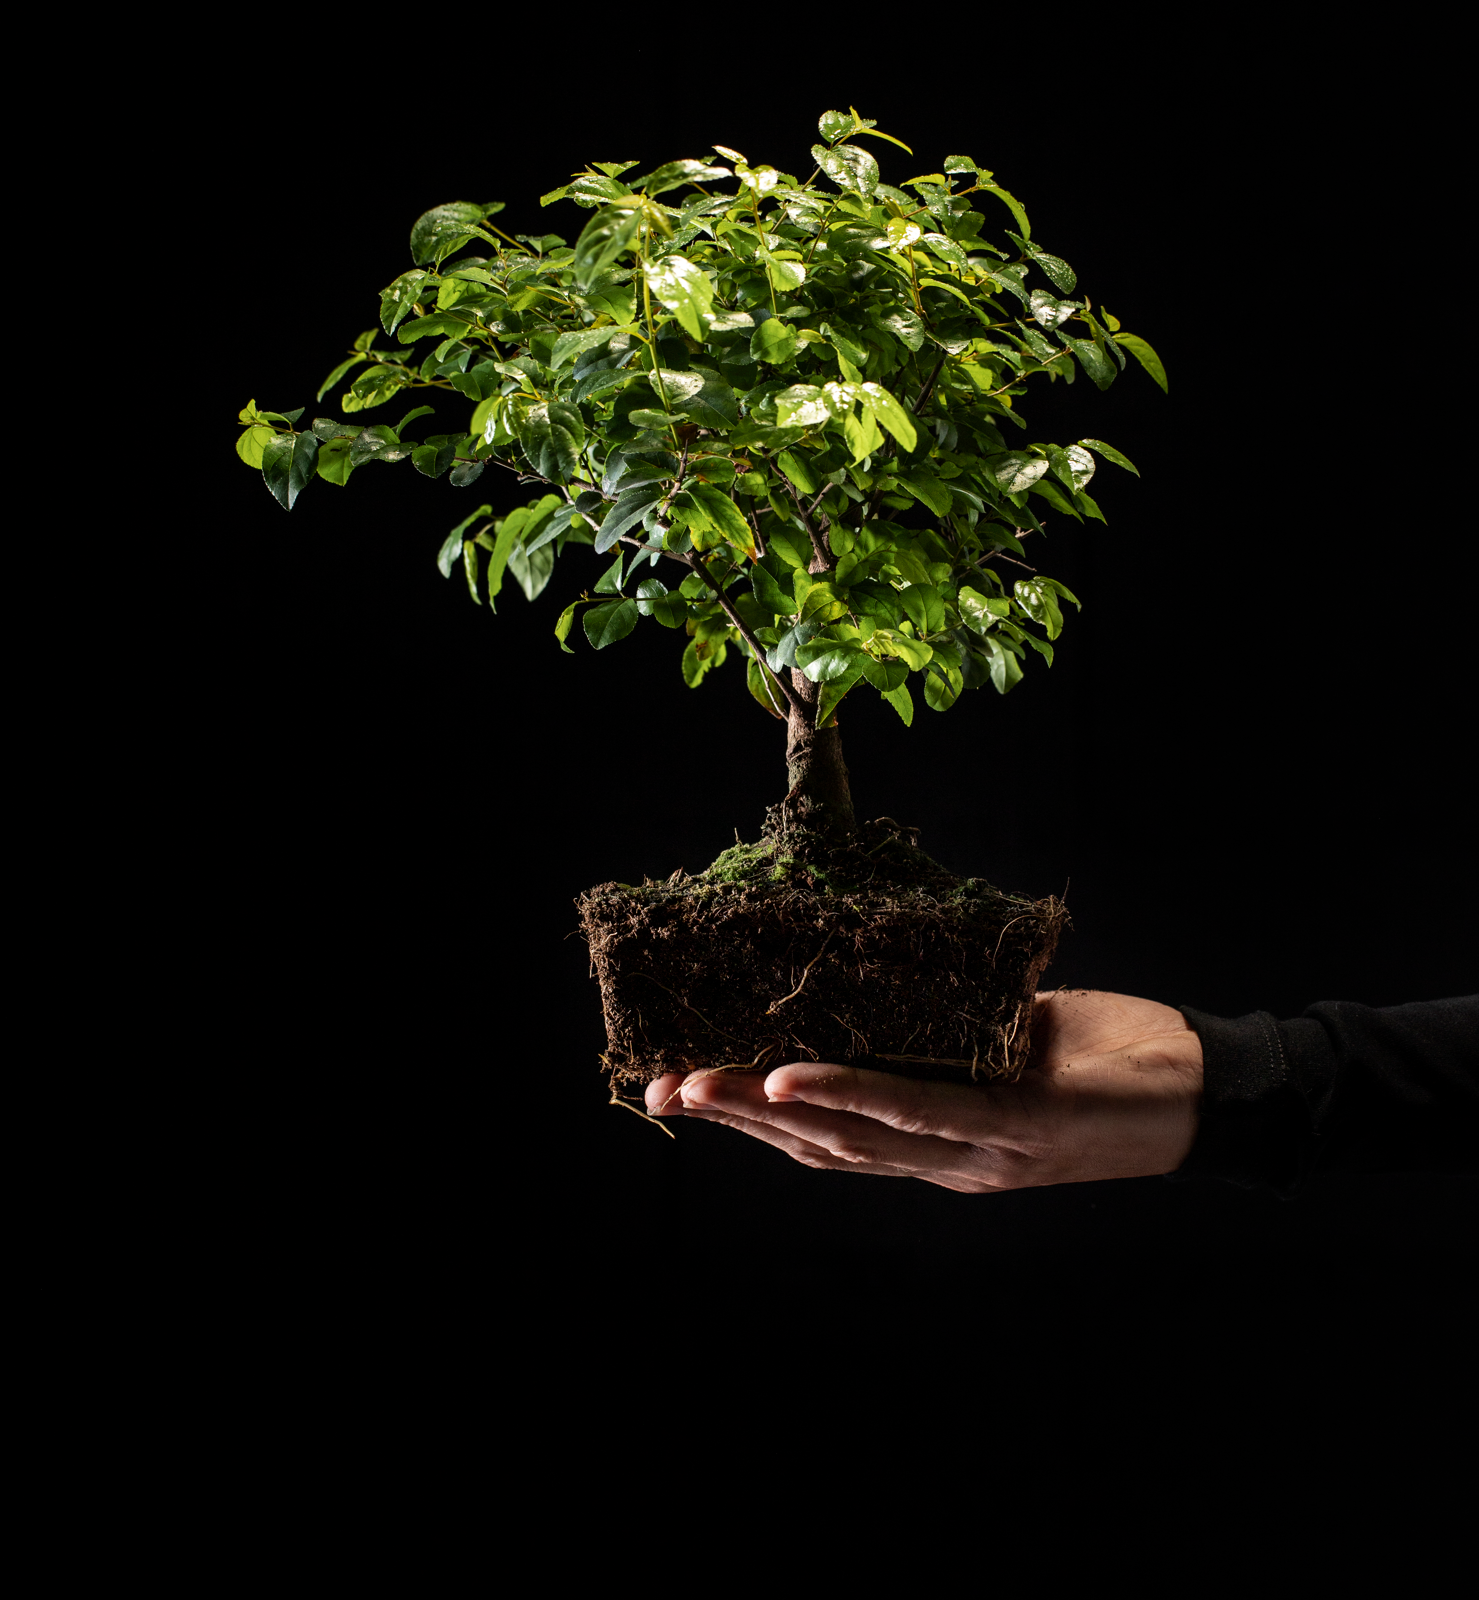
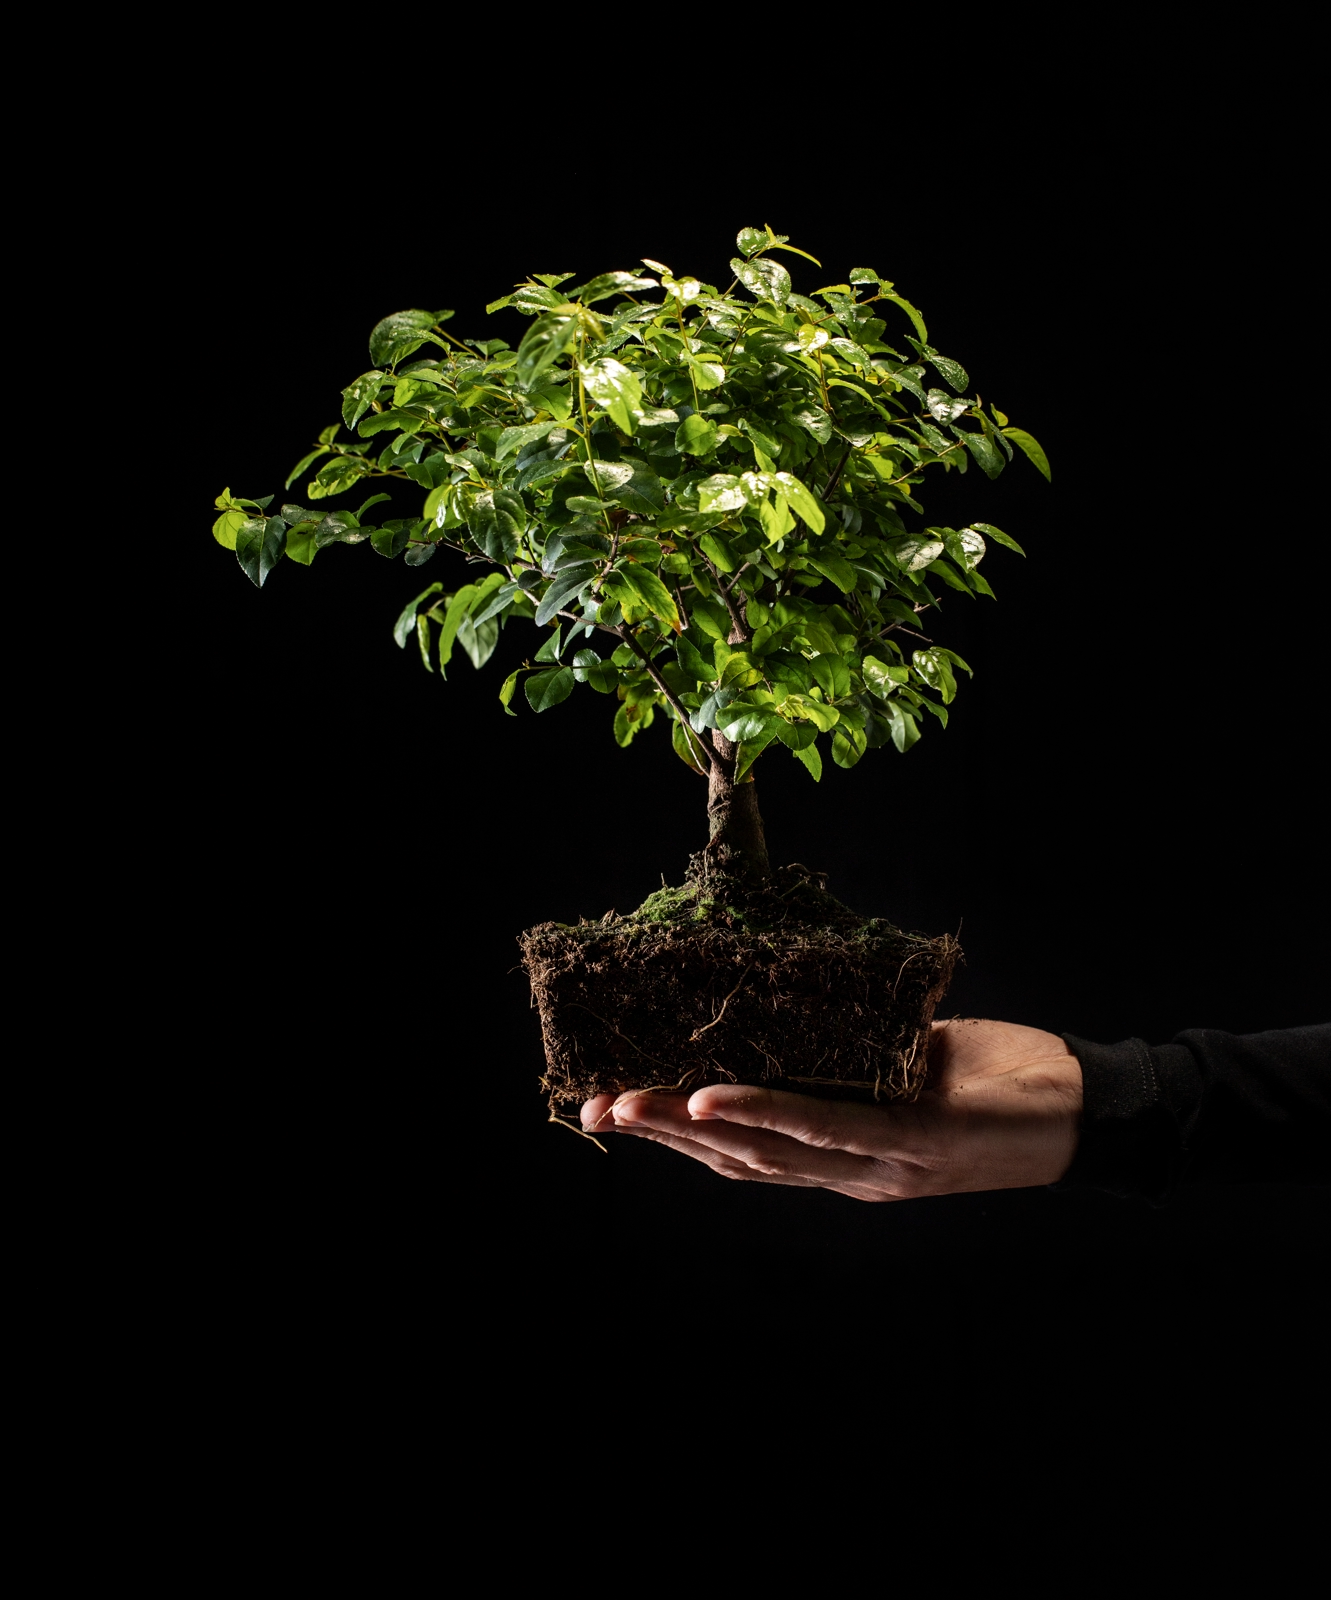
Add in index page disine

Changed region(s): [[0.154, 0.0625, 0.8625, 0.75]]

diff --git a/resources/css/index.css b/resources/css/index.css
@@ -1,46 +1,75 @@
+.index-first-background-image{
+    display: flex;
+    align-items: center;
+    justify-content: center;
+}
+
 /* Large desktops and laptops */
 @media (min-width: 1200px) {
     
     .index-first-background-image{
-        background:linear-gradient(rgba(28, 28, 29, 0), rgba(28, 28, 29, 0)), url("../../public/web/index/1600/main_image1.webp") center center / cover no-repeat;
+        background:linear-gradient(rgba(28, 28, 29, 0), rgba(28, 28, 29, 0)), url("../../public/web/index/1600/side_view_gardener_holding_little_tree.webp") center center / cover no-repeat;
+    }
+
+    .index-last-background-image{
+        background-image: url("../../public/web/index/1600/potted-tree-wooden-surface.webp");
+        background-size: 100%;
+        background-repeat: no-repeat;
+        background-size: 50%;
+        
+        /* background:linear-gradient(rgba(28, 28, 29, 0), rgba(28, 28, 29, 0)),  center center / cover no-repeat; */
+    }
+
+    .index-lite-background-image{
+        background-image: url("../../public/web/project_site/1600/side_view_gardener_holding_little_tree.webp"); 
     }
 }
 
 /* Portrait tablets and medium desktops */
 @media (min-width: 992px) and (max-width: 1199px) {
     .index-first-background-image{
-        background:linear-gradient(rgba(28, 28, 29, 0), rgba(28, 28, 29, 0)), url("../../public/web/index/750/main_image1.webp") center center / cover no-repeat;
+        background:linear-gradient(rgba(28, 28, 29, 0), rgba(28, 28, 29, 0)), url("../../public/web/index/750/side_view_gardener_holding_little_tree.webp") center center / cover no-repeat;
     }
-
+    .index-last-background-image{
+        background:linear-gradient(rgba(28, 28, 29, 0), rgba(28, 28, 29, 0)), url("../../public/web/index/750/potted-tree-wooden-surface.webp") center center / cover no-repeat;
+    }
 }
 
 /* Portrait tablets and small desktops */
 @media (min-width: 768px) and (max-width: 991px) {
     .index-first-background-image{
-        background:linear-gradient(rgba(28, 28, 29, 0), rgba(28, 28, 29, 0)), url("../../public/web/index/750/main_image1.webp") center center / cover no-repeat;
+        background:linear-gradient(rgba(28, 28, 29, 0), rgba(28, 28, 29, 0)), url("../../public/web/index/750/side_view_gardener_holding_little_tree.webp") center center / cover no-repeat;
     }
-    
+    .index-last-background-image{
+        background:linear-gradient(rgba(28, 28, 29, 0), rgba(28, 28, 29, 0)), url("../../public/web/index/750/potted-tree-wooden-surface.webp") center center / cover no-repeat;
+    }
 }
 
 /* Landscape phones and portrait tablets */
 @media (max-width: 767px) {
     .index-first-background-image{
-        background:linear-gradient(rgba(28, 28, 29, 0), rgba(28, 28, 29, 0)), url("../../public/web/index/750/main_image1.webp") center center / cover no-repeat;
+        background:linear-gradient(rgba(28, 28, 29, 0), rgba(28, 28, 29, 0)), url("../../public/web/index/750/side_view_gardener_holding_little_tree.webp") center center / cover no-repeat;
     }
-    
+    .index-last-background-image{
+        background:linear-gradient(rgba(28, 28, 29, 0), rgba(28, 28, 29, 0)), url("../../public/web/index/750/potted-tree-wooden-surface.webp") center center / cover no-repeat;
+    }
 }
 
 @media (max-width: 650) {
     .index-first-background-image{
-        background:linear-gradient(rgba(28, 28, 29, 0), rgba(28, 28, 29, 0)), url("../../public/web/index/250/main_image1.webp") center center / cover no-repeat;
+        background:linear-gradient(rgba(28, 28, 29, 0), rgba(28, 28, 29, 0)), url("../../public/web/index/250/side_view_gardener_holding_little_tree.webp") center center / cover no-repeat;
     }
-    
+    .index-last-background-image{
+        background:linear-gradient(rgba(28, 28, 29, 0), rgba(28, 28, 29, 0)), url("../../public/web/index/250/potted-tree-wooden-surface.webp") center center / cover no-repeat;
+    }
 }
 
 /* Landscape phones and smaller */
 @media (max-width: 480px) {
     .index-first-background-image{
-        background:linear-gradient(rgba(28, 28, 29, 0), rgba(28, 28, 29, 0)), url("../../public/web/index/250/main_image1.webp") center center / cover no-repeat;
+        background:linear-gradient(rgba(28, 28, 29, 0), rgba(28, 28, 29, 0)), url("../../public/web/index/250/side_view_gardener_holding_little_tree.webp") center center / cover no-repeat;
     }
-   
+    .index-last-background-image{
+        background:linear-gradient(rgba(28, 28, 29, 0), rgba(28, 28, 29, 0)), url("../../public/web/index/250/potted-tree-wooden-surface.webp") center center / cover no-repeat;
+    }
 }

diff --git a/resources/css/about.css b/resources/css/about.css
@@ -10,6 +10,16 @@
     margin-top: 5rem!important;
 }
 
+.about-first-background-image{
+    display: flex;
+    align-items: center;
+    justify-content: center;
+}
+
+.about-lite-background-image{
+    background-size: cover;
+}
+
 /* Large desktops and laptops */
 @media (min-width: 1200px) {
     .lite-image-text-section-image{
@@ -17,6 +27,9 @@
     }
     .about-first-background-image{
         background:linear-gradient(rgba(28, 28, 29, 0), rgba(28, 28, 29, 0)), url("../../public/web/about/1600/main_image1.webp") center center / cover no-repeat;
+    }
+    .about-lite-background-image{
+        background-image: url("../../public/web/about/1600/fon.webp"); 
     }
 }
 
@@ -26,12 +39,10 @@
         background:linear-gradient(rgba(28, 28, 29, 0), rgba(28, 28, 29, 0)), url("../../public/web/about/750/main_image1.webp") center center / cover no-repeat;
     }
 
-    .lite-image-text-section-image{
-        /* width: 800px; */
+    .about-lite-background-image{
+        background-image: url("../../public/web/about/750/fon.webp"); 
     }
-    .about-text-block-big{
-        /* display: none; */
-    }
+
     .about-text-block-small{
         display: none;
     }
@@ -42,15 +53,16 @@
     .about-first-background-image{
         background:linear-gradient(rgba(28, 28, 29, 0), rgba(28, 28, 29, 0)), url("../../public/web/about/750/main_image1.webp") center center / cover no-repeat;
     }
+
+    .about-lite-background-image{
+        background-image: url("../../public/web/about/750/fon.webp"); 
+    }
     
     .lite-image-text-section-image{
         width: 600px;
     }
     .about-text-block-big{
         display: none;
-    }
-    .about-text-block-small{
-        /* display: none; */
     }
 }
 
@@ -59,14 +71,11 @@
     .about-first-background-image{
         background:linear-gradient(rgba(28, 28, 29, 0), rgba(28, 28, 29, 0)), url("../../public/web/about/750/main_image1.webp") center center / cover no-repeat;
     }
-    .lite-image-text-section-image{
-        /* width: 800px; */
+    .about-lite-background-image{
+        background-image: url("../../public/web/about/750/fon.webp"); 
     }
     .about-text-block-big{
         display: none;
-    }
-    .about-text-block-small{
-        /* display: none; */
     }
 }
 
@@ -74,14 +83,11 @@
     .about-first-background-image{
         background:linear-gradient(rgba(28, 28, 29, 0), rgba(28, 28, 29, 0)), url("../../public/web/about/250/main_image1.webp") center center / cover no-repeat;
     }
-    .lite-image-text-section-image{
-        /* width: 800px; */
+    .about-lite-background-image{
+        background-image: url("../../public/web/about/250/fon.webp"); 
     }
     .about-text-block-big{
         display: none;
-    }
-    .about-text-block-small{
-        /* display: none; */
     }
 }
 
@@ -90,13 +96,10 @@
     .about-first-background-image{
         background:linear-gradient(rgba(28, 28, 29, 0), rgba(28, 28, 29, 0)), url("../../public/web/about/250/main_image1.webp") center center / cover no-repeat;
     }
-    .lite-image-text-section-image{
-        /* width: 800px; */
+    .about-lite-background-image{
+        background-image: url("../../public/web/about/250/fon.webp"); 
     }
     .about-text-block-big{
         display: none;
-    }
-    .about-text-block-small{
-        /* display: none; */
     }
 }

diff --git a/resources/css/main.css b/resources/css/main.css
@@ -53,14 +53,56 @@
     margin-top: 5rem!important;
 }
 
+.ps-6 {
+    padding-left: 4rem!important;
+}
 
+.ps-7 {
+    padding-left: 5rem!important;
+}
+
+.ps-8 {
+    padding-left: 6rem!important;
+}
+
+.ps-9 {
+    padding-left: 7rem!important;
+}
+
+.ps-10 {
+    padding-left: 8rem!important;
+}
+
+.ps-11 {
+    padding-left: 9rem!important;
+}
+
+.me-6 {
+    margin-right: 4rem !important;
+}
+
+.me-7 {
+    margin-right: 5rem !important;
+}
+
+.me-8 {
+    margin-right: 6rem !important;
+}
+
+.me-9 {
+    margin-right: 7rem !important;
+}
+
+.me-10 {
+    margin-right: 8rem !important;
+}
 
 .container-small{
     max-width: 650px;
 }
 
 .first-image{
-    height: 75vh !important;
+    height: 100vh !important;
     text-align: justify; 
     text-indent: 20px;
 }

diff --git a/app/Http/Middleware/ViewComponents.php b/app/Http/Middleware/ViewComponents.php
@@ -54,22 +54,22 @@ class ViewComponents
                         "active" => false,
                         "inner" => __("Resume"),
                     ],
-                    "/my_project" => [
-                        "active" => false,
-                        "inner" => __("My projects"),
-                        "dropdown" => [
-                            "/my_project/web" => [
-                                "active" => false,
-                                "inner" => __("web"),
-                                "dropdown" => [
-                                    "/my_project/web/laravel_site" => [
-                                        "active" => false,
-                                        "inner" => __("Site on Laravel framework"),
-                                    ],
-                                ],
-                            ],
-                        ],
-                    ],
+                    // "/my_project" => [
+                    //     "active" => false,
+                    //     "inner" => __("My projects"),
+                    //     "dropdown" => [
+                    //         "/my_project/web" => [
+                    //             "active" => false,
+                    //             "inner" => __("web"),
+                    //             "dropdown" => [
+                    //                 "/my_project/web/laravel_site" => [
+                    //                     "active" => false,
+                    //                     "inner" => __("Site on Laravel framework"),
+                    //                 ],
+                    //             ],
+                    //         ],
+                    //     ],
+                    // ],
                 ],
             ];
             $request_url = $request->server()["REQUEST_URI"];

diff --git a/resources/views/index.blade.php b/resources/views/index.blade.php
@@ -13,21 +13,44 @@
 <section class="first-image">
 
 
-    <div class="index-first-background-image mb-3" 
-        style="display: flex; align-items: center;
-  justify-content: center; background:linear-gradient(rgba(28, 28, 29, 0), rgba(28, 28, 29, 0)), url(web/project_site/1600/side_view_gardener_holding_little_tree.webp) center center / cover no-repeat;">
-
+    <div class="index-first-background-image ps-3 ml-3" >
           
-            <div class="p-2 bd-highlight " style="text-align:center;">
-                <h1>{{__("Current project")}}</h1>
-                <span>{{ __('Site on Laravel framework') }}</span>
-            </div>
+        <div class="p-2 bd-highlight " style="text-align:center;">
+            <h1>{{__("Project currently being worked on")}},</h1>
+            <span class="fs-1">{{ __("it's a Laravel framework site.") }}</span>
+        </div>
 
-        
     </div>
 
 </section>
+
+<section class="lite-image-text-section lite-background-image mt-5">
+
+        <div class="d-flex justify-content-center flex-row mb-3 container">
+            <div class="p-2 container" >|{{__('About project')}}|</div>
+            <div class="p-2 text-start">
+                <p>{{ $p1 }} {{ $p2 }}</p>
+                <p>{{ $p3 }} {{ $p4 }}</p>
+                <p>{{ $p5 }} {{ $p6 }}</p>
+            </div>
+        </div>
     
+</section>
+
+
+<section class="first-image mt-5">
+    
+    <div class="d-flex flex-row-reverse mb-3 index-last-background-image">
+        
+        <div class="me-10">
+            <div class="p-2">scroll bar</div>
+        </div>
+    </div>
+    
+    
+</section>
+
+
 @endsection
 
 

diff --git a/resources/views/about.blade.php b/resources/views/about.blade.php
@@ -13,8 +13,7 @@
 
 <section class="first-image">
 
-    <div class="about-first-background-image  mb-3" 
-        style="display: flex; align-items: center; justify-content: center;">
+    <div class="about-first-background-image  mb-3">
         
             <div class="p-2 bd-highlight" style="text-align:center;">
                 <h1>{{__("Welcome to my personal website")}}</h1>
@@ -25,7 +24,7 @@
 
 </section>
 
-<section class="lite-image-text-section lite-background-image" style="background-image: url(web/about/750/fon.webp); background-size: cover;">
+<section class="lite-image-text-section about-lite-background-image">
     <div class="flex-column container">
         <div class="row g-4 py-3 ">
             <div class="col d-flex align-items-start justify-content-center">
@@ -42,8 +41,6 @@
         
     <div class="container">
         <h4 style="margin: 25px 0px 25px 0px;">{{ $h_1 }}:</h4>
-    </div>
-        
 
         <div class="row g-4 py-3 row-cols-1 row-cols-lg-3 align-self-end">
             
@@ -97,6 +94,10 @@
                 </div>
             </div>
         </div>
+    </div>
+        
+
+        
     </div>
 </section>
 

diff --git a/app/Http/Controllers/InfoController.php b/app/Http/Controllers/InfoController.php
@@ -15,6 +15,9 @@ class InfoController extends ControllerTemplate{
         if(!empty($article)){
             $var = $article->getArticleContent();
         }
+        $var["style_list"] = [
+            url("resources/css/index.css")
+        ];
         return $this->defaultInit($request, "index", $var);
     }
 
